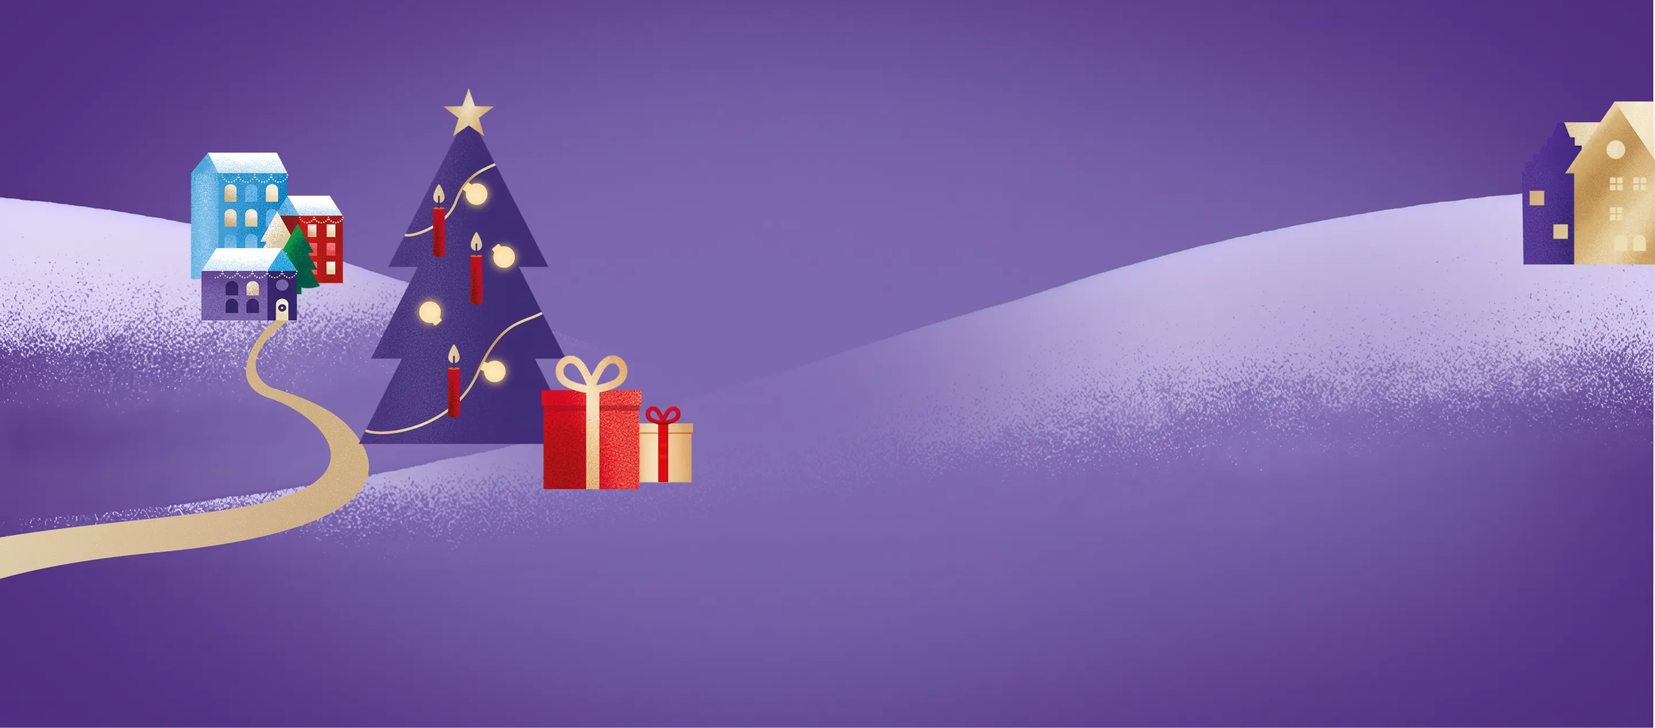
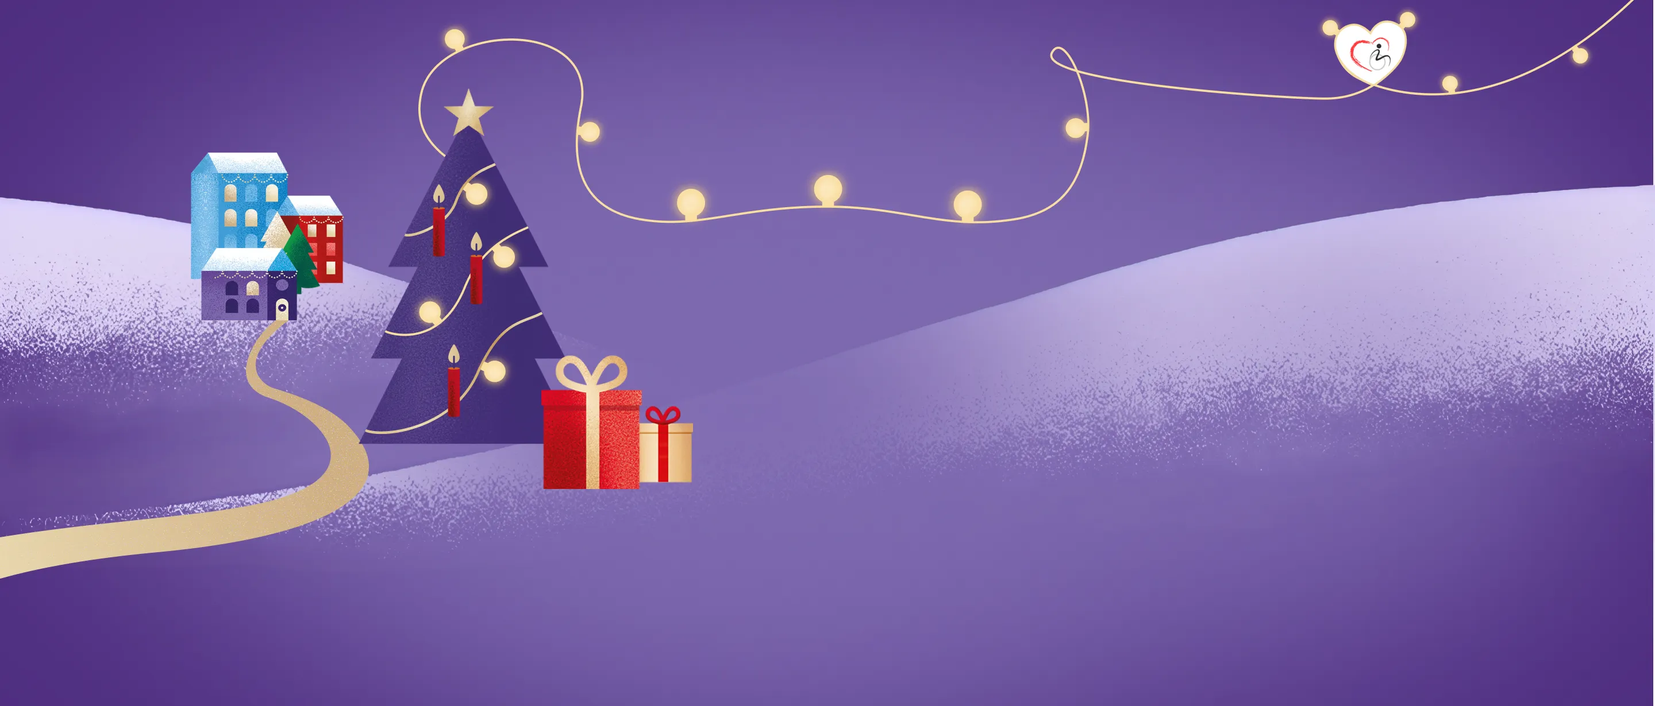
add hero background

diff --git a/assets/css/styles.min.css b/assets/css/styles.min.css
@@ -1,1 +1,1 @@
-:root{--font: "congenial", sans-serif;--heavy: "heavy", sans-serif;--gradient: linear-gradient(90deg, #ecddb2 0%, #cead7c);--white: #ffffff;--black: #000000;--bg: #513082;--color: #3b2774;--violet: #7d69af}@font-face{font-family:"congenial";src:url("../fonts/congenial-light.woff2") format("woff2");font-weight:300;font-style:normal}@font-face{font-family:"congenial";src:url("../fonts/congenial-medium.woff2") format("woff2");font-weight:500;font-style:normal}@font-face{font-family:"heavy";src:url("../fonts/heavy.woff2") format("woff2");font-weight:500;font-style:normal}@keyframes rotate{0%{transform:rotate(0deg)}100%{transform:rotate(360deg)}}@keyframes rotateleft{0%{transform:rotate(0deg)}100%{transform:rotate(-360deg)}}@keyframes pulse{0%{transform:scale(1)}50%{transform:scale(1.1)}100%{transform:scale(1)}}@keyframes blink{0%,100%{opacity:1}50%{opacity:0}}@keyframes scrollDown{0%,100%{transform:translateY(0) scaleX(0.8)}50%{transform:translateY(-10px) scaleX(1)}}@keyframes slide{0%{transform:translate(-200%, -25%) rotate(-40deg)}30%,100%{transform:translate(200%, -25%) rotate(-40deg)}}@keyframes bounce{0%{transform:scale(1)}25%{transform:scale(1)}30%{transform:scale(1.1)}35%{transform:scale(1.08)}40%{transform:scale(1.1)}45%{transform:scale(1.095)}50%{transform:scale(1.1)}75%{transform:scale(1.1)}80%{transform:scale(1)}85%{transform:scale(1.02)}90%{transform:scale(1)}95%{transform:scale(1.005)}100%{transform:scale(1)}}:root{font-synthesis:none;text-rendering:optimizeLegibility;-webkit-font-smoothing:antialiased;-moz-osx-font-smoothing:grayscale;outline:none;-webkit-tap-highlight-color:rgba(0,0,0,0);backface-visibility:hidden}*,*:before,*:after{padding:0;margin:0;box-sizing:border-box;-webkit-tap-highlight-color:rgba(0,0,0,0)}html{height:100%}body{overscroll-behavior:none;-webkit-overflow-scrolling:auto;position:relative;width:100%;height:100%;background-color:var(--bg);color:var(--white);font-family:var(--font);font-weight:300;line-height:1.4;overflow-x:hidden;overflow-y:auto}html,body{overscroll-behavior:none}img{display:block;-o-object-fit:cover;object-fit:cover;-webkit-user-select:none;-moz-user-select:none;user-select:none}h1,h2,h3,h4,h5,h6,b,strong{font-family:var(--heavy);color:inherit}button{position:relative;border:none;cursor:pointer;background:none;color:inherit}button:disabled{cursor:auto;opacity:.3;pointer-events:none}ul,menu{list-style:none}a{text-decoration:none}.gradient{background-image:var(--gradient);background-clip:text;-webkit-background-clip:text;color:rgba(0,0,0,0);-webkit-text-fill-color:rgba(0,0,0,0)}.body{display:flex;flex-direction:column}.main{display:block;position:relative;z-index:1;flex:1}.container{display:block;position:relative;width:100%;max-width:1280px;margin:0 auto}.container.container--800{max-width:800px}@media(max-width: 1310px){.container{padding:0px 20px}}.section{position:relative;overflow:hidden;z-index:2}.section.visible{overflow:visible}.slider-arrows{display:inline-flex;gap:12px;padding-bottom:10px;justify-content:space-between}@media(max-width: 1279px){.slider-arrows{gap:10px;padding-bottom:8px}}@media(max-width: 767px){.slider-arrows{display:none}}.swiper{width:100%}.swiper-arrow{display:flex;position:absolute;width:44px;height:44px;border:none;flex-wrap:wrap;justify-content:center;align-items:center;align-content:center;opacity:1;transition:opacity .3s;z-index:3;margin-top:-35px;top:50%}.swiper-arrow[data-arrow-prev]{background:url("../img/svg/arrow-prev.svg") no-repeat center center;background-size:auto 100%;right:calc(100% + 20px)}.swiper-arrow[data-arrow-next]{background:url("../img/svg/arrow-next.svg") no-repeat center center;background-size:auto 100%;left:calc(100% + 20px)}.swiper-arrow.swiper-button-disabled{opacity:.3;pointer-events:none}.swiper-pagination{display:flex;position:relative;width:100% !important;height:20px;flex-wrap:wrap;justify-content:center;align-items:center;align-content:center;bottom:0px !important;gap:20px}.swiper-pagination .swiper-pagination-bullet{display:flex;justify-content:center;align-items:center;align-content:center;position:absolute;left:50% !important;transform:scale(1) translate(-50%, 0%);margin:0 !important;opacity:0;width:40px;height:20px;border-radius:0px;background:none;transition:.6s !important;pointer-events:none}.swiper-pagination .swiper-pagination-bullet.swiper-pagination-bullet-active-next-next{position:absolute;transform:scale(1);left:50% !important;opacity:0;transform:translate(calc(200% + 20px), 0%)}.swiper-pagination .swiper-pagination-bullet.swiper-pagination-bullet-active-prev-prev{position:absolute;transform:scale(1);left:50% !important;opacity:0;transform:translate(calc(-300% - 20px), 0%)}.swiper-pagination .swiper-pagination-bullet.swiper-pagination-bullet-active-main{position:absolute;transform:scale(1);left:50% !important;opacity:1;transform:translate(-50%, 0%)}.swiper-pagination .swiper-pagination-bullet.swiper-pagination-bullet-active-next{position:absolute;transform:scale(1);left:50% !important;opacity:.3;transform:translate(100%, 0%);pointer-events:all}.swiper-pagination .swiper-pagination-bullet.swiper-pagination-bullet-active-prev{position:absolute;transform:scale(1);left:50% !important;opacity:.3;transform:translate(-200%, 0%);pointer-events:all}.swiper-pagination .swiper-pagination-bullet:before{content:"";position:absolute;width:100%;height:4px;border-radius:2px;background-color:var(--color);opacity:1;transition:background-color .3s,opacity .3s}.swiper-pagination .swiper-pagination-bullet.swiper-pagination-bullet-active:before{background-color:var(--brown)}.header{display:block}.button{display:flex;overflow:hidden;z-index:1;min-height:42px;font-family:var(--font);justify-content:center;align-items:center;align-content:center;position:relative;font-size:16px;line-height:1;color:var(--white);padding:10px 30px;z-index:1;transition:background .3s,transform .2s;-webkit-user-select:none;-moz-user-select:none;user-select:none;outline:none;cursor:pointer;border-radius:40px;background:linear-gradient(180deg, #ff2933, #7b1015);transform:translate(0px, 0px)}.button span{display:flex;width:100%;justify-content:center;align-items:center;align-content:center}.button:before{content:"";display:block;position:absolute;left:0px;top:0px;width:100%;height:100%;background:url("../img/noize.png") repeat;opacity:.8}.button.button--violet{font-size:12px;line-height:1;text-transform:uppercase;min-height:40px;background:var(--violet)}.button.button--violet:before{content:none}@media(hover: hover){.button.button--violet:hover,.button.button--violet:focus{background:var(--color)}}.button.full{width:100%}.button:active{transform:translate(0px, 2px)}.titles .title:before,.titles .title:after{content:"";display:block;position:absolute;height:125px;width:100vw;background:url("../img/lights.webp") no-repeat left center;background-size:auto 100%;top:50%}@media(max-width: 767px){.titles .title:before,.titles .title:after{content:none}}.titles .title:before{right:100%;transform:translate(0px, -50%) scaleX(-1)}.titles .title:after{left:100%;transform:translate(0px, -50%)}.titles.no-lights .title:before,.titles.no-lights .title:after{content:none}.titles .subtitle{margin-top:10px}.title{position:relative;text-align:center;text-transform:uppercase;font-family:var(--font);margin:0 auto}.title .ta--l{text-align:left}.subtitle{font-weight:500;font-size:28px;line-height:1.1;text-align:center;text-transform:uppercase;color:var(--white);font-family:var(--font);font-weight:500}@media(max-width: 767px){.subtitle{font-size:22px}}.subtitle .ta--l{text-align:left}svg text.title.title--h2{font-size:44px;font-family:var(--font);text-transform:uppercase}@media(max-width: 767px){svg text.title.title--h2{font-size:40px}}.section--body{padding-top:clamp(200px, 13.8889vw, 356px);padding-bottom:360px;margin-bottom:-360px;background:url("../img/body-bg.webp") no-repeat center top;background-size:100% auto}@media(max-width: 767px){.section--body{background:url("../img/body-bg-mobil.webp") no-repeat center top;background-size:100% auto}}.brends{display:flex;position:relative;width:100%;flex-wrap:wrap;justify-content:center;align-items:center;align-content:center;gap:20px;margin:30px auto}.brends li{width:calc((100% - 40px)/3)}@media(max-width: 767px){.brends li{width:100%}}.brends li a{display:flex;position:relative;width:100%;max-width:364px;margin:auto;height:80px;flex-wrap:wrap;justify-content:center;align-items:center;align-content:center;border-radius:15px}.slider{display:block;position:relative;width:100%}@media(max-width: 767px){.slider{width:540px}.slider .swiper-arrow{display:none}}.slider .swiper{overflow:visible}.slider .swiper-slide{display:flex;flex-direction:column;justify-content:flex-start;align-items:center;min-height:392px;border-radius:20px;position:relative;overflow:hidden;z-index:1;background:linear-gradient(#ffffff, var(--bg));margin:20px 0px 60px 0px;box-shadow:0px 35px 22px -24px rgba(46,24,78,.8);transition:opacity .5s;opacity:0}.slider .swiper-slide.swiper-slide-active,.slider .swiper-slide.swiper-slide-active+.swiper-slide,.slider .swiper-slide.swiper-slide-active+.swiper-slide+.swiper-slide{opacity:1}.slider .swiper-slide:before{content:"";display:block;position:absolute;left:0px;top:0px;width:100%;height:100%;background:url("../img/noize.png") repeat;opacity:.4}.slider .swiper-slide span{width:100%;padding:20px 15px;display:block;text-align:center;margin-top:auto;font-weight:500;font-size:12px;color:#d0c5ec}.product-image{display:flex;position:relative;width:100%;justify-content:center;align-items:center;align-content:center}.product-image:before{content:"";display:block;width:100%;padding-top:95%}.product-image img{position:absolute;width:100%;height:100%;left:0px;top:0px}.product-title{padding:0px 10px;text-align:center;display:block;font-size:18px;font-weight:500;line-height:1.2;text-transform:uppercase}.footer{display:flex;width:100%;height:auto;flex-direction:column;justify-content:flex-end;align-items:center;align-content:center;position:relative;z-index:2;padding:clamp(90px, 9.7222vw, 140px) 0px 40px 0px;overflow:hidden;background:url("../img/footer.webp") no-repeat center top;background-size:100% 140%;flex-shrink:0;color:var(--color)}.footer .container{display:flex;position:relative;width:100%;flex-wrap:wrap;justify-content:space-between;align-items:flex-end;align-content:flex-end;gap:30px}.footer__contacts{display:inline-flex;position:relative;flex-direction:column;align-items:flex-start;gap:10px;min-width:234px}.footer__contacts .button{min-width:188px}.footer__contacts .mondelez{width:164px;margin-bottom:10px}.footer__contacts .tel{color:var(--color);font-weight:500;font-size:24px;line-height:1}.footer__contacts p{font-size:12px}.footer__policy{flex:1}.footer__policy .policy{color:var(--color);font-size:12px;text-align:center}.footer__navigation ul{display:flex;position:relative;width:100%;flex-direction:column;gap:22px}.footer__navigation ul li{width:100%}.footer__navigation ul li a{display:block;width:100%;font-size:16px;line-height:1;text-align:right;white-space:nowrap;color:var(--color)}@media(hover: hover){.footer__navigation ul li a:hover{text-decoration:underline}}@media(max-width: 767px){.footer{background:url("../img/footer.webp") no-repeat right top/cover}.footer .container{flex-wrap:nowrap;flex-direction:column;justify-content:flex-start;align-items:center;align-content:center;max-width:280px}.footer__contacts{align-items:center;order:1}.footer__policy{order:3}.footer__policy .policy{max-width:230px}.footer__navigation{order:2}.footer__navigation ul{gap:20px}.footer__navigation ul li a{text-align:center}}
+:root{--font: "congenial", sans-serif;--heavy: "heavy", sans-serif;--gradient: linear-gradient(90deg, #ecddb2 0%, #cead7c);--white: #ffffff;--black: #000000;--bg: #513082;--color: #3b2774;--violet: #7d69af}@font-face{font-family:"congenial";src:url("../fonts/congenial-light.woff2") format("woff2");font-weight:300;font-style:normal}@font-face{font-family:"congenial";src:url("../fonts/congenial-medium.woff2") format("woff2");font-weight:500;font-style:normal}@font-face{font-family:"heavy";src:url("../fonts/heavy.woff2") format("woff2");font-weight:500;font-style:normal}@keyframes rotate{0%{transform:rotate(0deg)}100%{transform:rotate(360deg)}}@keyframes rotateleft{0%{transform:rotate(0deg)}100%{transform:rotate(-360deg)}}@keyframes pulse{0%{transform:scale(1)}50%{transform:scale(1.1)}100%{transform:scale(1)}}@keyframes blink{0%,100%{opacity:1}50%{opacity:0}}@keyframes scrollDown{0%,100%{transform:translateY(0) scaleX(0.8)}50%{transform:translateY(-10px) scaleX(1)}}@keyframes slide{0%{transform:translate(-200%, -25%) rotate(-40deg)}30%,100%{transform:translate(200%, -25%) rotate(-40deg)}}@keyframes bounce{0%{transform:scale(1)}25%{transform:scale(1)}30%{transform:scale(1.1)}35%{transform:scale(1.08)}40%{transform:scale(1.1)}45%{transform:scale(1.095)}50%{transform:scale(1.1)}75%{transform:scale(1.1)}80%{transform:scale(1)}85%{transform:scale(1.02)}90%{transform:scale(1)}95%{transform:scale(1.005)}100%{transform:scale(1)}}:root{font-synthesis:none;text-rendering:optimizeLegibility;-webkit-font-smoothing:antialiased;-moz-osx-font-smoothing:grayscale;outline:none;-webkit-tap-highlight-color:rgba(0,0,0,0);backface-visibility:hidden}*,*:before,*:after{padding:0;margin:0;box-sizing:border-box;-webkit-tap-highlight-color:rgba(0,0,0,0)}html{height:100%}body{overscroll-behavior:none;-webkit-overflow-scrolling:auto;position:relative;width:100%;height:100%;background-color:var(--bg);color:var(--white);font-family:var(--font);font-weight:300;line-height:1.4;overflow-x:hidden;overflow-y:auto}html,body{overscroll-behavior:none}img{display:block;-o-object-fit:cover;object-fit:cover;-webkit-user-select:none;-moz-user-select:none;user-select:none}h1,h2,h3,h4,h5,h6,b,strong{font-family:var(--heavy);color:inherit}button{position:relative;border:none;cursor:pointer;background:none;color:inherit}button:disabled{cursor:auto;opacity:.3;pointer-events:none}ul,menu{list-style:none}a{text-decoration:none}.gradient{background-image:var(--gradient);background-clip:text;-webkit-background-clip:text;color:rgba(0,0,0,0);-webkit-text-fill-color:rgba(0,0,0,0)}.body{display:flex;flex-direction:column}.main{display:block;position:relative;z-index:1;flex:1}.container{display:block;position:relative;width:100%;max-width:1280px;margin:0 auto}.container.container--800{max-width:800px}@media(max-width: 1310px){.container{padding:0px 20px}}.section{position:relative;overflow:hidden;z-index:2}.section.visible{overflow:visible}.slider-arrows{display:inline-flex;gap:12px;padding-bottom:10px;justify-content:space-between}@media(max-width: 1279px){.slider-arrows{gap:10px;padding-bottom:8px}}@media(max-width: 767px){.slider-arrows{display:none}}.swiper{width:100%}.swiper-arrow{display:flex;position:absolute;width:44px;height:44px;border:none;flex-wrap:wrap;justify-content:center;align-items:center;align-content:center;opacity:1;transition:opacity .3s;z-index:3;margin-top:-35px;top:50%}.swiper-arrow[data-arrow-prev]{background:url("../img/svg/arrow-prev.svg") no-repeat center center;background-size:auto 100%;right:calc(100% + 20px)}.swiper-arrow[data-arrow-next]{background:url("../img/svg/arrow-next.svg") no-repeat center center;background-size:auto 100%;left:calc(100% + 20px)}.swiper-arrow.swiper-button-disabled{opacity:.3;pointer-events:none}.swiper-pagination{display:flex;position:relative;width:100% !important;height:20px;flex-wrap:wrap;justify-content:center;align-items:center;align-content:center;bottom:0px !important;gap:20px}.swiper-pagination .swiper-pagination-bullet{display:flex;justify-content:center;align-items:center;align-content:center;position:absolute;left:50% !important;transform:scale(1) translate(-50%, 0%);margin:0 !important;opacity:0;width:40px;height:20px;border-radius:0px;background:none;transition:.6s !important;pointer-events:none}.swiper-pagination .swiper-pagination-bullet.swiper-pagination-bullet-active-next-next{position:absolute;transform:scale(1);left:50% !important;opacity:0;transform:translate(calc(200% + 20px), 0%)}.swiper-pagination .swiper-pagination-bullet.swiper-pagination-bullet-active-prev-prev{position:absolute;transform:scale(1);left:50% !important;opacity:0;transform:translate(calc(-300% - 20px), 0%)}.swiper-pagination .swiper-pagination-bullet.swiper-pagination-bullet-active-main{position:absolute;transform:scale(1);left:50% !important;opacity:1;transform:translate(-50%, 0%)}.swiper-pagination .swiper-pagination-bullet.swiper-pagination-bullet-active-next{position:absolute;transform:scale(1);left:50% !important;opacity:.3;transform:translate(100%, 0%);pointer-events:all}.swiper-pagination .swiper-pagination-bullet.swiper-pagination-bullet-active-prev{position:absolute;transform:scale(1);left:50% !important;opacity:.3;transform:translate(-200%, 0%);pointer-events:all}.swiper-pagination .swiper-pagination-bullet:before{content:"";position:absolute;width:100%;height:4px;border-radius:2px;background-color:var(--color);opacity:1;transition:background-color .3s,opacity .3s}.swiper-pagination .swiper-pagination-bullet.swiper-pagination-bullet-active:before{background-color:var(--brown)}.header{display:block;position:fixed;left:0px;top:0px}.button{display:flex;overflow:hidden;z-index:1;min-height:42px;font-family:var(--font);justify-content:center;align-items:center;align-content:center;position:relative;font-size:16px;line-height:1;color:var(--white);padding:10px 30px;z-index:1;transition:background .3s,transform .2s;-webkit-user-select:none;-moz-user-select:none;user-select:none;outline:none;cursor:pointer;border-radius:40px;background:linear-gradient(180deg, #ff2933, #7b1015);transform:translate(0px, 0px)}.button span{display:flex;width:100%;justify-content:center;align-items:center;align-content:center}.button:before{content:"";display:block;position:absolute;left:0px;top:0px;width:100%;height:100%;background:url("../img/noize.png") repeat;opacity:.8}.button.button--violet{font-size:12px;line-height:1;text-transform:uppercase;min-height:40px;background:var(--violet)}.button.button--violet:before{content:none}@media(hover: hover){.button.button--violet:hover,.button.button--violet:focus{background:var(--color)}}.button.full{width:100%}.button:active{transform:translate(0px, 2px)}.titles .title:before,.titles .title:after{content:"";display:block;position:absolute;height:125px;width:100vw;background:url("../img/lights.webp") no-repeat left center;background-size:auto 100%;top:50%}@media(max-width: 767px){.titles .title:before,.titles .title:after{content:none}}.titles .title:before{right:100%;transform:translate(0px, -50%) scaleX(-1)}.titles .title:after{left:100%;transform:translate(0px, -50%)}.titles.no-lights .title:before,.titles.no-lights .title:after{content:none}.titles .subtitle{margin-top:10px}.title{position:relative;text-align:center;text-transform:uppercase;font-family:var(--font);margin:0 auto}.title .ta--l{text-align:left}.subtitle{font-weight:500;font-size:28px;line-height:1.1;text-align:center;text-transform:uppercase;color:var(--white);font-family:var(--font);font-weight:500}@media(max-width: 767px){.subtitle{font-size:22px}}.subtitle .ta--l{text-align:left}svg text.title.title--h2{font-size:44px;font-family:var(--font);text-transform:uppercase}@media(max-width: 767px){svg text.title.title--h2{font-size:40px}}.section--hero{width:100%;height:clamp(820px, 42.7083vw, 1012px);margin-bottom:-450px}.scene{display:block;position:absolute;left:50%;top:0px;width:100%;min-width:1920px;height:820px;transform:translate(-50%, 0%);background:url("../img/hero-bg.webp") no-repeat center top/cover}@media(max-width: 1430px){.scene{background:url("../img/hero-bg-tablet.webp") no-repeat center top/cover}}@media(max-width: 1279px){.section--hero{height:750px;margin-bottom:-450px}.scene{height:750px;background-size:1600px 700px}}@media(max-width: 767px){.section--hero{height:1024px;margin-bottom:-370px}.scene{height:1024px;background:url("../img/hero-bg-mobil.webp") no-repeat center top/cover;background-size:768px 1024px}}.section--body{padding-top:200px;padding-bottom:360px;margin-bottom:-360px;background:url("../img/body-bg.webp") no-repeat center top;background-size:1920px 2378px}.section--body:before{content:"";position:absolute;pointer-events:none;width:100%;height:550px;left:0px;top:0px;background:url("../img/lights-top.webp") no-repeat center top;background-size:1920px 550px}@media(max-width: 1365px){.section--body{margin-bottom:-300px}}@media(min-width: 1921px){.section--body{background-size:100% 2378px}.section--body:before{background-size:100% auto}}@media(max-width: 767px){.section--body{background:url("../img/body-bg-mobil.webp") no-repeat center top;background-size:100% 2442px}}.brends{display:flex;position:relative;width:100%;flex-wrap:wrap;justify-content:center;align-items:center;align-content:center;gap:20px;margin:30px auto}.brends li{width:calc((100% - 40px)/3)}@media(max-width: 767px){.brends li{width:100%}}.brends li a{display:flex;position:relative;width:100%;max-width:364px;margin:auto;height:80px;flex-wrap:wrap;justify-content:center;align-items:center;align-content:center;border-radius:15px}.slider{display:block;position:relative;width:100%}@media(max-width: 767px){.slider{width:540px}.slider .swiper-arrow{display:none}}.slider .swiper{overflow:visible}.slider .swiper-slide{display:flex;flex-direction:column;justify-content:flex-start;align-items:center;min-height:392px;border-radius:20px;position:relative;overflow:hidden;z-index:1;background:linear-gradient(#ffffff, var(--bg));margin:20px 0px 60px 0px;box-shadow:0px 35px 22px -24px rgba(46,24,78,.8);transition:opacity .5s;opacity:0}.slider .swiper-slide.swiper-slide-active,.slider .swiper-slide.swiper-slide-active+.swiper-slide,.slider .swiper-slide.swiper-slide-active+.swiper-slide+.swiper-slide{opacity:1}.slider .swiper-slide:before{content:"";display:block;position:absolute;left:0px;top:0px;width:100%;height:100%;background:url("../img/noize.png") repeat;opacity:.4}.slider .swiper-slide span{width:100%;padding:20px 15px;display:block;text-align:center;margin-top:auto;font-weight:500;font-size:12px;color:#d0c5ec}.product-image{display:flex;position:relative;width:100%;justify-content:center;align-items:center;align-content:center}.product-image:before{content:"";display:block;width:100%;padding-top:95%}.product-image img{position:absolute;width:100%;height:100%;left:0px;top:0px}.product-title{padding:0px 10px;text-align:center;display:block;font-size:18px;font-weight:500;line-height:1.2;text-transform:uppercase}.footer{display:flex;width:100%;height:auto;flex-direction:column;justify-content:flex-end;align-items:center;align-content:center;position:relative;z-index:2;padding:clamp(90px, 9.7222vw, 140px) 0px 40px 0px;overflow:hidden;background:url("../img/footer.webp") no-repeat center top;background-size:100% 140%;flex-shrink:0;color:var(--color)}.footer .container{display:flex;position:relative;width:100%;flex-wrap:wrap;justify-content:space-between;align-items:flex-end;align-content:flex-end;gap:30px}.footer__contacts{display:inline-flex;position:relative;flex-direction:column;align-items:flex-start;gap:10px;min-width:234px}.footer__contacts .button{min-width:188px}.footer__contacts .mondelez{width:164px;margin-bottom:10px}.footer__contacts .tel{color:var(--color);font-weight:500;font-size:24px;line-height:1}.footer__contacts p{font-size:12px}.footer__policy{flex:1}.footer__policy .policy{color:var(--color);font-size:12px;text-align:center}.footer__navigation ul{display:flex;position:relative;width:100%;flex-direction:column;gap:22px}.footer__navigation ul li{width:100%}.footer__navigation ul li a{display:block;width:100%;font-size:16px;line-height:1;text-align:right;white-space:nowrap;color:var(--color)}@media(hover: hover){.footer__navigation ul li a:hover{text-decoration:underline}}@media(max-width: 767px){.footer{background:url("../img/footer.webp") no-repeat right top/cover}.footer .container{flex-wrap:nowrap;flex-direction:column;justify-content:flex-start;align-items:center;align-content:center;max-width:280px}.footer__contacts{align-items:center;order:1}.footer__policy{order:3}.footer__policy .policy{max-width:230px}.footer__navigation{order:2}.footer__navigation ul{gap:20px}.footer__navigation ul li a{text-align:center}}

diff --git a/assets/css/styles.css b/assets/css/styles.css
@@ -387,6 +387,9 @@ a {
 
 .header {
   display: block;
+  position: fixed;
+  left: 0px;
+  top: 0px;
 }
 
 .button {
@@ -525,17 +528,85 @@ svg text.title.title--h2 {
   }
 }
 
+.section--hero {
+  width: 100%;
+  height: clamp(820px, 42.7083vw, 1012px);
+  margin-bottom: -450px;
+}
+
+.scene {
+  display: block;
+  position: absolute;
+  left: 50%;
+  top: 0px;
+  width: 100%;
+  min-width: 1920px;
+  height: 820px;
+  transform: translate(-50%, 0%);
+  background: url("../img/hero-bg.webp") no-repeat center top/cover;
+}
+@media (max-width: 1430px) {
+  .scene {
+    background: url("../img/hero-bg-tablet.webp") no-repeat center top/cover;
+  }
+}
+
+@media (max-width: 1279px) {
+  .section--hero {
+    height: 750px;
+    margin-bottom: -450px;
+  }
+  .scene {
+    height: 750px;
+    background-size: 1600px 700px;
+  }
+}
+@media (max-width: 767px) {
+  .section--hero {
+    height: 1024px;
+    margin-bottom: -370px;
+  }
+  .scene {
+    height: 1024px;
+    background: url("../img/hero-bg-mobil.webp") no-repeat center top/cover;
+    background-size: 768px 1024px;
+  }
+}
 .section--body {
-  padding-top: clamp(200px, 13.8889vw, 356px);
+  padding-top: 200px;
   padding-bottom: 360px;
   margin-bottom: -360px;
   background: url("../img/body-bg.webp") no-repeat center top;
-  background-size: 100% auto;
+  background-size: 1920px 2378px;
+}
+.section--body:before {
+  content: "";
+  position: absolute;
+  pointer-events: none;
+  width: 100%;
+  height: 550px;
+  left: 0px;
+  top: 0px;
+  background: url("../img/lights-top.webp") no-repeat center top;
+  background-size: 1920px 550px;
+}
+@media (max-width: 1365px) {
+  .section--body {
+    margin-bottom: -300px;
+  }
+}
+@media (min-width: 1921px) {
+  .section--body {
+    background-size: 100% 2378px;
+  }
+  .section--body:before {
+    background-size: 100% auto;
+  }
 }
 @media (max-width: 767px) {
   .section--body {
     background: url("../img/body-bg-mobil.webp") no-repeat center top;
-    background-size: 100% auto;
+    background-size: 100% 2442px;
   }
 }
 

diff --git a/index.html b/index.html
@@ -25,12 +25,9 @@
     <main class="main">
       <!--HERO-->
       <section class="section section--hero">
+        <div class="scene"></div>
         <div class="container">
-          <h1 class="title">sdsdsdsdsd</h1>
-          <p class="subtitle">
-            Lorem ipsum dolor, sit amet consectetur adipisicing elit. Reiciendis beatae, aspernatur asperiores facilis, consequatur enim voluptate
-            soluta tenetur deserunt vero doloremque labore, possimus recusandae quaerat laborum modi fugiat laboriosam necessitatibus.
-          </p>
+          <p class="subtitle">Lorem ipsum</p>
         </div>
       </section>
 
@@ -44,6 +41,7 @@
                 <defs>
                   <linearGradient id="gold" x1="0" y1="0" x2="1" y2="0">
                     <stop offset="0%" stop-color="#CFAF7E" />
+                    <stop offset="30%" stop-color="#ECDDB2" />
                     <stop offset="100%" stop-color="#ECDDB2" />
                   </linearGradient>
                   <path id="line3" d="M 0 78 A 450 450 0 0 1 344 80" />
@@ -143,6 +141,7 @@
                 <defs>
                   <linearGradient id="gold" x1="0" y1="0" x2="1" y2="0">
                     <stop offset="0%" stop-color="#CFAF7E" />
+                    <stop offset="40%" stop-color="#ECDDB2" />
                     <stop offset="100%" stop-color="#ECDDB2" />
                   </linearGradient>
 

diff --git a/assets/scss/_section__body.scss b/assets/scss/_section__body.scss
@@ -1,12 +1,34 @@
 .section--body {
-  padding-top: myclamp(200px, 200px, 1440px, 2560px);
+  padding-top: 200px;
   padding-bottom: 360px;
   margin-bottom: -360px;
   background: url('../img/body-bg.webp') no-repeat center top;
-  background-size: 100% auto;
+  background-size: 1920px 2378px;
+
+  &:before {
+    content: '';
+    position: absolute;
+    pointer-events: none;
+    width: 100%;
+    height: 550px;
+    left: 0px;
+    top: 0px;
+    background: url('../img/lights-top.webp') no-repeat center top;
+    background-size: 1920px 550px;
+  }
+
+  @media (max-width: 1365px) {
+    margin-bottom: -300px;
+  }
+  @media (min-width: 1921px) {
+    background-size: 100% 2378px;
+    &:before {
+      background-size: 100% auto;
+    }
+  }
   @media (max-width: 767px) {
     background: url('../img/body-bg-mobil.webp') no-repeat center top;
-    background-size: 100% auto;
+    background-size: 100% 2442px;
   }
 }
 

diff --git a/assets/scss/_section__hero.scss b/assets/scss/_section__hero.scss
@@ -1,0 +1,46 @@
+.section--hero {
+  width: 100%;
+  height: myclamp(820px, 820px, 1920px, 2370px);
+  margin-bottom: -450px;
+}
+
+.scene {
+  display: block;
+  position: absolute;
+  left: 50%;
+  top: 0px;
+  width: 100%;
+  min-width: 1920px;
+  height: 820px;
+  transform: translate(-50%, 0%);
+  background: url('../img/hero-bg.webp') no-repeat center top/cover;
+
+  @media (max-width: 1430px) {
+    background: url('../img/hero-bg-tablet.webp') no-repeat center top/cover;
+  }
+}
+
+@media (max-width: 1279px) {
+  .section--hero {
+    height: 750px;
+    margin-bottom: -450px;
+  }
+
+  .scene {
+    height: 750px;
+    background-size: 1600px 700px;
+  }
+}
+
+@media (max-width: 767px) {
+  .section--hero {
+    height: 1024px;
+    margin-bottom: -370px;
+  }
+
+  .scene {
+    height: 1024px;
+    background: url('../img/hero-bg-mobil.webp') no-repeat center top/cover;
+    background-size: 768px 1024px;
+  }
+}

diff --git a/assets/scss/styles.scss b/assets/scss/styles.scss
@@ -19,5 +19,6 @@
 @import 'header';
 @import 'buttons';
 @import 'typography';
+@import 'section__hero';
 @import 'section__body';
 @import 'footer';

diff --git a/assets/scss/_header.scss b/assets/scss/_header.scss
@@ -1,3 +1,6 @@
 .header {
   display: block;
+  position: fixed;
+  left: 0px;
+  top: 0px;
 }
